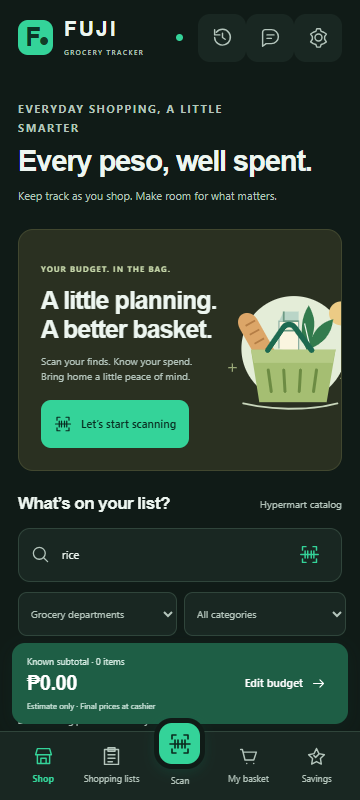
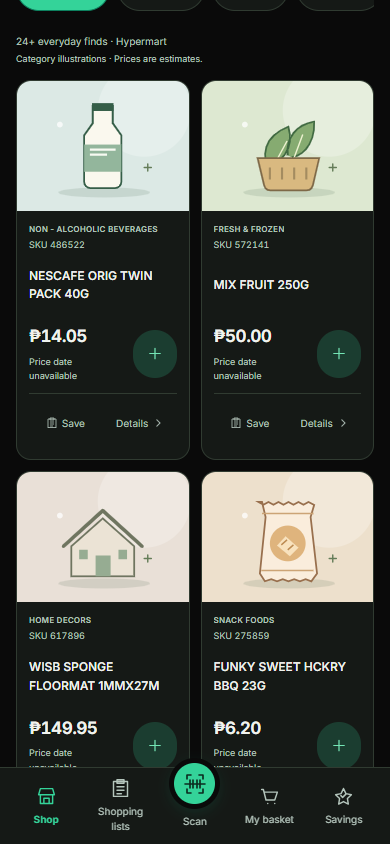
feat(shopper): publish the standalone grocery website design

diff --git a/shopper/app.js b/shopper/app.js
@@ -39,7 +39,7 @@ function renderPage(){
  if(tab==='shop')renderProducts();
  updatePinned();
 }
-function updatePinned(){const v=totals(S.cart);$('#mobile-total').innerHTML=`<div class="mobile-total"><div><p>${esc(t('subtotal'))} · ${v.count} item${v.count===1?'':'s'}${v.unpricedQuantity?` + ${v.unpricedQuantity} unpriced`:''}</p><strong>${money(v.knownCentavos)}</strong><small>Estimate only · Final prices at cashier</small></div><button data-action="${S.cart.length?'view-basket':'budget'}">${S.cart.length?'View basket':S.budget?'Edit budget':'Set budget'} ${icon('arrow')}</button></div>`;document.querySelectorAll('.desktop-nav [data-tab=cart],.mobile-nav [data-tab=cart]').forEach(b=>{let badge=b.querySelector('.badge,.count');if(v.count){if(!badge){badge=document.createElement('span');badge.className=b.closest('.mobile-nav')?'count':'badge';b.append(badge);}badge.textContent=String(v.count);}else badge?.remove();});document.querySelectorAll('[data-tab]').forEach(b=>{b.classList.toggle('active',b.dataset.tab===tab);if(b.dataset.tab===tab)b.setAttribute('aria-current','page');else b.removeAttribute('aria-current');});}
+function updatePinned(){const v=totals(S.cart);$('#mobile-total').innerHTML=(v.count||S.budget)?`<div class="mobile-total"><div><p>${esc(t('subtotal'))} · ${v.count} item${v.count===1?'':'s'}${v.unpricedQuantity?` + ${v.unpricedQuantity} unpriced`:''}</p><strong>${money(v.knownCentavos)}</strong><small>Estimate only · Final prices at cashier</small></div><button data-action="${S.cart.length?'view-basket':'budget'}">${S.cart.length?'View basket':S.budget?'Edit budget':'Set budget'} ${icon('arrow')}</button></div>`:'';document.querySelectorAll('.desktop-nav [data-tab=cart],.mobile-nav [data-tab=cart]').forEach(b=>{let badge=b.querySelector('.badge,.count');if(v.count){if(!badge){badge=document.createElement('span');badge.className=b.closest('.mobile-nav')?'count':'badge';b.append(badge);}badge.textContent=String(v.count);}else badge?.remove();});document.querySelectorAll('[data-tab]').forEach(b=>{b.classList.toggle('active',b.dataset.tab===tab);if(b.dataset.tab===tab)b.setAttribute('aria-current','page');else b.removeAttribute('aria-current');});}
 function shopPage(){
  const popular=[['','All items'],['STAPLE','Staples'],['MILK AND DAIRY','Dairy'],['SNACK FOODS','Snacks'],['COOKING ESSENTIALS','Cooking'],['HOUSEHOLD CARE','Home care']];
  return title('THE EVERYDAY EDIT',S.language==='fil'?'Bawat piso, sulit.':'Good finds. Better baskets.','Your everyday essentials, with a little more peace of mind.',`<button class="btn primary" data-action="scan">${icon('scan')} Scan an item</button>`)+`<div class="page-grid"><div class="main-column"><section class="catalog-intro"><div><p class="eyebrow">CURATED FOR YOUR NEXT SHOP</p><h2>A little planning goes a long way.</h2><p>Browse your list. Scan your finds.<br>Keep every peso in view.</p></div><div class="collection-mark" aria-hidden="true"><span></span><span></span>${icon('bag')}</div></section><div class="searchbox"><label class="sr-only" for="product-search">${esc(t('search'))}</label>${icon('search')}<input id="product-search" type="search" placeholder="${esc(t('search'))}" value="${esc(query)}" autocomplete="off" enterkeyhint="search"><button data-action="lookup-search" aria-label="Look up entered barcode">${icon('scan')}</button></div><div class="filter-row"><label class="sr-only" for="department-filter">Department</label><select id="department-filter"><option value="groceries" ${department==='groceries'?'selected':''}>Grocery departments</option><option value="all" ${department==='all'?'selected':''}>All listed items</option>${catalog.meta.departments.map(d=>`<option value="${esc(d)}" ${d===department?'selected':''}>${esc(d)}</option>`).join('')}</select><label class="sr-only" for="category-filter">Category</label><select id="category-filter"><option value="">All categories</option>${catalog.meta.categories.map(c=>`<option ${category===c?'selected':''} value="${esc(c)}">${esc(c)}</option>`).join('')}</select></div><div class="categories" aria-label="Quick categories">${popular.map(([value,label])=>`<button class="chip ${category===value?'active':''}" data-category="${value}" aria-pressed="${category===value}">${icon(categoryIcon(value))}${label}</button>`).join('')}</div><div class="result-meta"><span id="result-count">Finding your everyday essentials…</span><span>Category illustrations · Prices are estimates.</span></div><div id="products" class="products">${'<div class="skeleton"></div>'.repeat(4)}</div><div id="more-products"></div><div class="catalog-note">${icon('info')}<span>${catalog.meta.itemCount.toLocaleString()} listed items · Imported ${formatDate(catalog.meta.updatedAt)}.<br>Your supplied prices, matched by SKU to HYPERMART. Price date and live stock are unavailable. Confirm shelf and cashier prices.</span></div>${warning()}</div>${basketAside()}</div>`;

diff --git a/docs/shopper-pr-summary.md b/docs/shopper-pr-summary.md
@@ -9,3 +9,9 @@ Android uses Compose Material 3, MVVM/Repository, Hilt, Room, DataStore, Navigat
 Web validation includes repository tests, syntax/type checks, production build, mobile shopping flow, offline lookup, scanner/QR round-trip, fixture-only savings and Firestore emulator isolation checks. Android validation and downloadable artifacts are produced by `.github/workflows/android.yml`; see `shopper-validation.md` for the final actual results.
 
 The [Vercel website](https://fujisupersystem-git-codex-fuji-shopper-hypermart-fuji-92d1.vercel.app/shopper/) remains the **protected review preview selected by the user**, linked to [PR #2](https://github.com/danne6077-beep/CYCLE-COUNT1/pull/2). No production merge or paid hosting upgrade is performed.
+
+The user subsequently requested a separate grocery website. Vercel project **fuji-grocery-tracker** now uses root directory `shopper`, sharing this repository's master files while excluding the Cycle Count Generator from its deployed pages. The redesign uses the supplied Scrnshts visual reference, original illustrated cards and self-hosted Inter.
+
+![FUJI gallery design](images/shopper-desktop-gallery.png)
+![FUJI mobile light](images/shopper-mobile-light.png)
+![FUJI mobile dark](images/shopper-mobile-dark.png)

diff --git a/shopper/README.md b/shopper/README.md
@@ -2,6 +2,10 @@
 
 A mobile-first, device-local Hypermart shopping companion at `/shopper/`, alongside the existing FUJI Cycle Count System. It uses only the supplied workbook's **HYPERMART** sheet. GOMART and SET are excluded.
 
+The separate Vercel project **fuji-grocery-tracker** builds the `shopper/` directory and serves this app at its own web root. The Cycle Count Generator keeps its existing project. The two projects share this repository and master-data exports; the grocery deployment excludes the generator's pages. `shopper/vercel.json`, relative manifest paths and service-worker scope support the standalone origin. The older `/shopper/` preview remains a development compatibility route.
+
+The visual direction uses the supplied Scrnshts reference: dark-first editorial layout, free self-hosted Inter, rounded illustrated category cards and room around search/filter controls. Illustrations are original and are labeled as category artwork. Mobile and desktop have matching light and dark themes.
+
 **Prices may not always be accurate. Estimate only. Final prices are confirmed at the cashier.**
 
 ## What the data really contains
